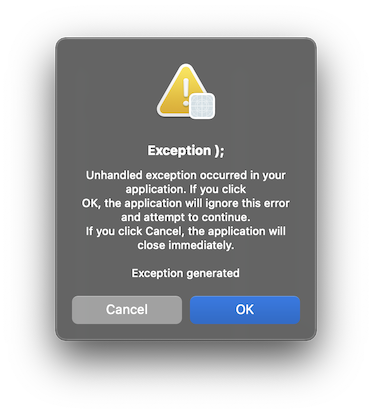
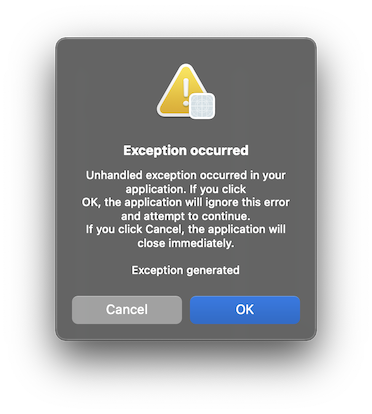
Fix typo

Changed region(s): [[0.207, 0.4638, 0.7688, 0.6087], [0.3548, 0.6377, 0.6505, 0.6957], [0.3253, 0.3478, 0.6801, 0.3768]]

diff --git a/juce_gui_basics/Applications/ApplicationAndException/src/ApplicationAndException.cpp b/juce_gui_basics/Applications/ApplicationAndException/src/ApplicationAndException.cpp
@@ -74,7 +74,7 @@ namespace ApplicationAndExceptionExample {
   private:
     static void ShowExceptionError(const std::exception* exception) {
       auto message = String {"Unhandled exception occurred in your application. If you click\nOK, the application will ignore this error and attempt to continue.\nIf you click Cancel, the application will close immediately.\n\n"} + (exception ? exception->what() : "Unknown exception occurred");
-      if (NativeMessageBox::showOkCancelBox(MessageBoxIconType::WarningIcon, "Exception );", message) == true) {
+      if (NativeMessageBox::showOkCancelBox(MessageBoxIconType::WarningIcon, "Exception occurred", message) == true) {
         JUCE_TRY {
           MessageManager::getInstance()->runDispatchLoop();
         }
